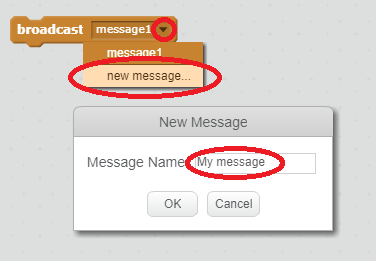
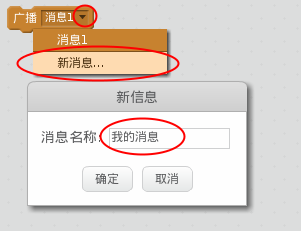
Update Chinese (simplified)

diff --git a/zh-CN/step_1.md b/zh-CN/step_1.md
@@ -1,22 +1,23 @@
-广播可用于传达来自子图的信号，且可被所有子图听到。将它看作通过扬声器发出的一条公告。
+广播是一种发送信号的方法，从一个角色发送可以被所有的角色听到。你可以把它想象成是一个用扩音器发出的公告。
 
 ### 发送广播
-你可以通过创建广播代码块并给它命名来发送一条广播。
 
-+ 在事件选项卡中找到广播代码块。
+你可以通过创建命名的广播代码块来发送广播，。
 
-+ 在下拉菜单中选择**新消息**，然后输入你的消息。
++ 在事件选项页中找到广播块。
 
-![Create a broadcast](images/create-a-broadcast.png)
++ 在下拉菜单中选择新消息，然后输入你的消息名称。
 
-消息文本可以是你喜欢的任何内容，但对广播内容进行合理的描述会很有用。当该消息被接收时会发生什么取决于你编写的代码。
+![创建广播](images/create-a-broadcast.png)
+
+消息的文本可以是你喜欢的任何东西，但是最好给广播一个合理的描述。当消息被接收到时触发的事件取决于你的编码。
 
 ### 接收广播
 
-可使用以下代码块来使子图对广播作出反应：
+角色可以使用这个块对广播做出反应:
 
-![Receive a broadcast](images/receive-a-broadcast.png)
+![接收广播](images/receive-a-broadcast.png)
 
-你可以在此代码块下方添加代码块，来告诉子图在收到广播信号时做什么。
+可以在这个块下面加入块，告诉角色当它收到广播信号时要做些什么。
 
-![Receive example](images/receive-example.png)
+![接收样例](images/receive-example.png)
